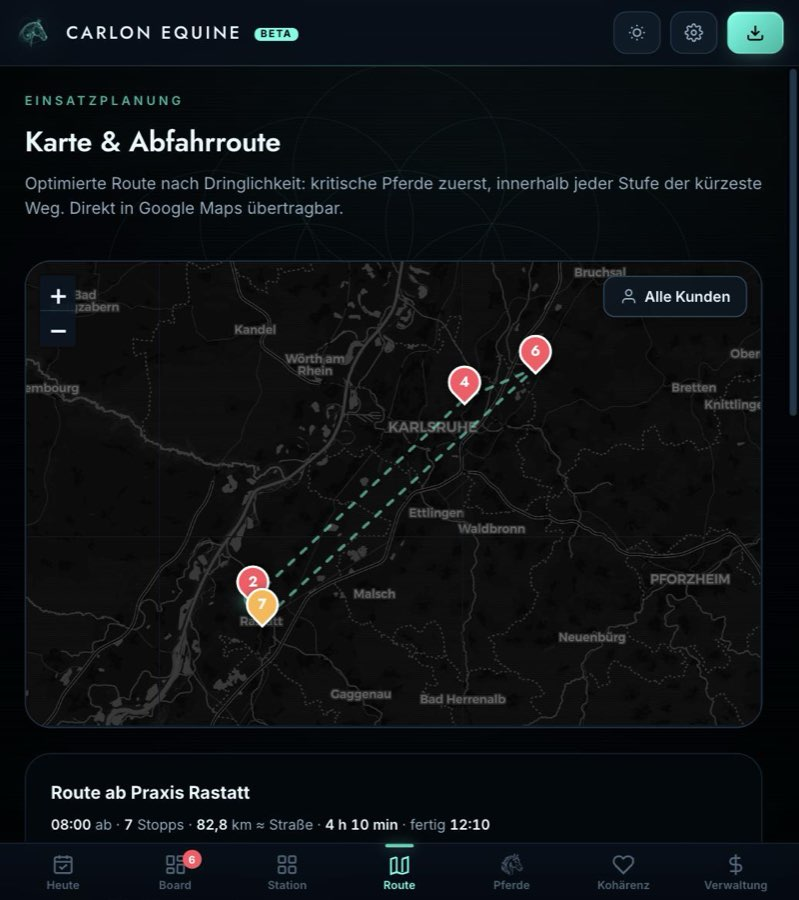
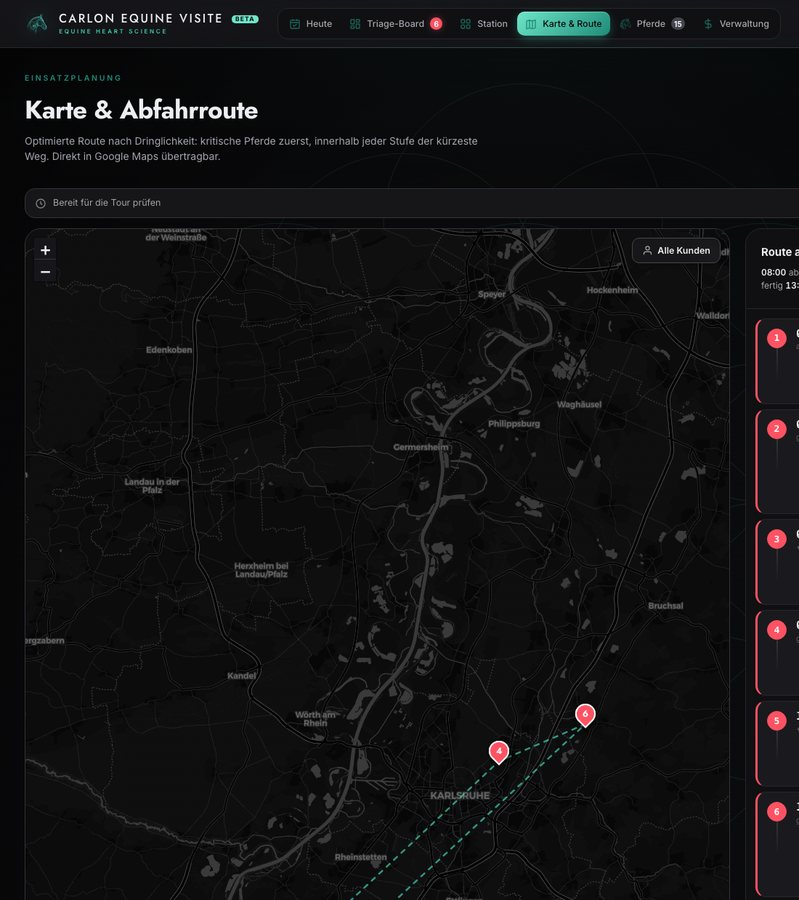
Cockpit-Bilder aus dem laufenden Cockpit erneuert — und zwei Funde dabei
Die sechs Aufnahmen auf der Verkaufsseite stammten vom 22. Juli und zeigten
noch "Max Mustermann, Musterstraße 25, 12345 Musterstadt". Seit heute heisst
die Demo Iffezheim, Rastatt, Rebhof — die Bilder widersprachen also der
Anwendung, die sie zeigen sollen. Neu aufgenommen AUS DEM LAUFENDEN COCKPIT:
ein Bild, das per Hand nachgestellt wird, veraltet beim naechsten Umbau
still; eines, das aus der Anwendung kommt, zeigt sie so, wie sie ist.
Zuschnitt 1100x1238 aus der Vollaufloesung statt der ganzen Breite — 1,38x
Verkleinerung statt 1,8x. Das entscheidet, ob ein Tierarzt die Zahlen im
Bild lesen kann, und darum geht es bei einem Cockpit-Bild.

FUND 1 — DER ROTE ALARM UEBER DER DEMO.
renderBanner() unterdrueckt die Verlust-Warnung in der Demo. Es lief aber
lange VOR der Zeile, die isDemo setzt, und wurde nie wiederholt. Ergebnis:
Wer von der Visite-Seite kommt und die Demo laedt, bekommt fuer den Rest
der Sitzung einen roten Verlustalarm ueber Software, die er noch gar nicht
besitzt. Ein Aussenpruefer hatte genau das gemeldet.
Ein Alarm ohne Anlass entwertet jeden spaeteren — deshalb ist das keine
Kosmetik. Das Band wird jetzt nach dem Laden neu gezeichnet.
Nachgemessen: banner_sichtbar false, 15 Pferde, demo true.

FUND 2 — MEIN PRUEFSTAND SPRACH MIT EINEM FREMDEN BROWSER.
cdp.mjs benutzte einen FESTEN Debug-Port. Lief noch ein Chrome aus einem
frueheren Aufruf darauf, verband sich jeder weitere Aufruf mit GENAU DIESEM
[…]

diff --git a/carlon-equine/app/index.html b/carlon-equine/app/index.html
@@ -8821,6 +8821,16 @@ const Seed={
     await State.load();
     await Seed.synthRoutineVisits();
     State.settings.isDemo=true; await State.saveSettings();   // Demo-Daten sind wegwerfbar → kein Backup-Nag beim First-Touch
+    /* DAS BAND NEU ZEICHNEN, SONST BLEIBT DER ALARM STEHEN.
+       renderBanner() unterdrueckt die Verlustwarnung in der Demo — aber es
+       lief lange VOR dieser Zeile, als isDemo noch falsch war, und wurde nie
+       wiederholt. Ergebnis: ein Interessent von der Visite-Seite laedt die
+       Demo und bekommt fuer den Rest der Sitzung einen roten Verlustalarm
+       ueber Software, die er noch gar nicht besitzt. Ein Aussenpruefer hat
+       genau das gemeldet („als erster Eindruck ein Alarm").
+       Ein Alarm ohne Anlass entwertet jeden spaeteren — deshalb ist das
+       keine Kosmetik. */
+    if(typeof Safe!=='undefined' && Safe.renderBanner) await Safe.renderBanner();
     Nav.refresh();Toast.show(`${cnt} Demo-Pferde geladen · inkl. synthetischem Verlauf`,'ok');
   },
   // Realistischer Tagesmix: neben den Notfällen ein paar STABILE Routine-Kontrollen in den Tag legen.

diff --git a/carlon-equine/app/sw.js b/carlon-equine/app/sw.js
@@ -2,7 +2,7 @@
    App-Shell wird precached; Fonts & Leaflet lokal gebündelt (assets/) — keine externen CDNs,
    sodass die App nach dem ersten Online-Start vollständig offline läuft.
    Gesundheitsdaten liegen in IndexedDB — der SW cached nur Programm-Assets. */
-const VERSION = 'carlon-clinic-b1d8e44ae6';
+const VERSION = 'carlon-clinic-b14d8baf53';
 /* ACHTUNG: JEDE Datei in CORE wird ausgeliefert, bis VERSION sich aendert.
    Zweimal in dieser Nacht passiert — einmal beim Livegang-Schalter, einmal bei
    krypto.js: Datei geaendert, Version vergessen, und der Browser lieferte
